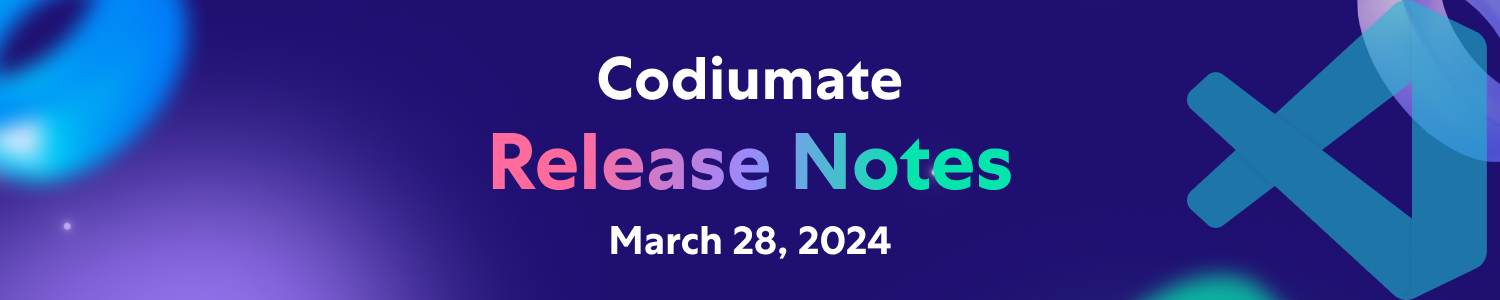
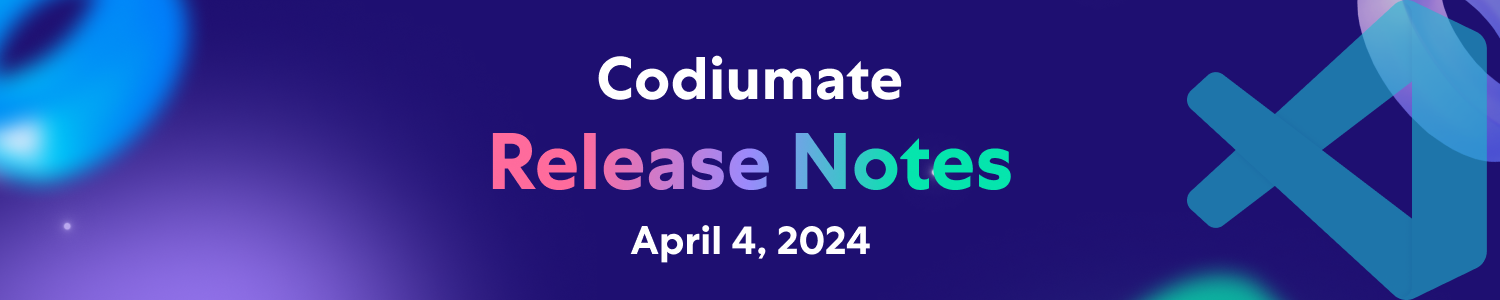
added release notes 4/4/2024

Changed region(s): [[0.3987, 0.75, 0.6133, 0.87]]

diff --git a/docs/index.md b/docs/index.md
@@ -5,50 +5,25 @@
 </figure>
 
 #
-## Codiumate for JetBrains
+## Introducing - Codiumate Coding-Agent!
 
-**[Full Release Notes](./versions/latest/codiumate-jb.md)**
+**Exciting announcement this week** - We have released the first alpha version of our **[Coding-Agent](https://www.codium.ai/products/coding-agent/)** in our VSCode extension!
 
-Our JetBrains plugin now has a **New Chat Interface!**
+In Codiumate v0.8 for VSCode, you will find your next best friend: a coding agent that helps you complete any task in your project. Just write the specification, select the relevant context, and let Codiumate write the plan and even auto-complete the code for you!
 
-Our incredible JetBrains team has put in a lot of hard work, and we're excited to unveil a new chat interface that looks and feels more like 2024 and less like.. well.. 2023. The new interface looks just like our VSCode chat. We are now working on adding all the features that we have in VSCode.
-
-**Check it out:**
+We are releasing the Codiumate-Agent in its alpha form because we, as developers, believe in giving users the chance to influence the product as early as possible. Additionally, we love seeing our users enjoy what we build.
 
 <figure markdown="1">
-![JB New Chat](./versions/latest/assets/jb-new-chat.png){ width="600" }
+![coding-agent](./versions/latest/assets/coding-agent.jpg){class="no-border" width=70%}
 </figure>
 
-
-## Codiumate for VSCode
-
-**[Full Release Notes](./versions/latest/vscode.md)**
-
-We're cooking up something exciting, and you'll hear about it soon. But in the meantime, we've introduced some really cool features that will enhance the existing ones and make them even more awesome! One of these enhancements includes... adding more context! 🍾
-
-Codiumate chat now allows you to include more context when sending any command, ensuring you get better results. This context can be drawn from the current repository or any other repository you want!
-
-**See how it works:**
-
-<figure markdown="1">
-![VSCode Context](./versions/latest/assets/vscode-context.png){ width="700" }
-</figure>
+<p style="text-align:center; font-size:120%;"> <b>In celebration of the Codiumate-Agent's launch, we are excited to extend a special offer to all our users: a 2-week trial of the Teams plan, giving everyone the opportunity to try the new feature.</b></p>
+<p style="text-align:center"> 🎉</p>
 
 
+Why imagine what you can see for real? Watch a demo of the Codiumate-Agent at its best, where it successfully auto-completes over 90% of a real task in our open-source project PR-Agent:
 
-## PR-Agent
+![type:video](https://www.youtube.com/embed/9dH3pUzsbig?si=dSRMHNdeahUTtEdn)
 
-**[Full Release Notes](./versions/latest/pr-agent.md)**
-
-As always, our PR-Agent open source is getting better and better, with the great help from our dear contributors. Keep sharing your love and stars on [GitHub](https://github.com/Codium-ai/pr-agent/) ⭐
-
-Some really cool features were added lately, including:
-
-Get [similar code](https://pr-agent-docs.codium.ai/tools/similar_code/) in GitHub, added support for bedrock/claude3, added Pypi support to install PR-Agent with pip and more.
-
-**See how Similar Code looks like:**
-
-<figure markdown="1">
-![Similar Code](./versions/latest/assets/pr-agent-similar-code.png){ width="700" }
-</figure>
+**Read the new blog by Itamar, CodiumAI's CEO - [Tandem Coding with my Agent](https://www.codium.ai/blog/tandem-development-agent-plan-aware-auto-complete-with-automatic-review/).**
 

diff --git a/docs/versions/latest/vscode.md b/docs/versions/latest/vscode.md
@@ -5,23 +5,36 @@
 </figure>
 
 #
-## v.0.7.55
+## v.0.8
 
-## Add Context to Codiumate Chat
+## Codiumate Coding-Agent
 
-We're cooking up something exciting, and you'll hear about it soon. But in the meantime, we've introduced some really cool features that will enhance the existing ones and make them even more awesome! One of these enhancements includes... adding more context! 🍾
+**Exciting announcement this week** - We have released the first alpha version of our **[Coding-Agent](https://www.codium.ai/products/coding-agent/)** in our VSCode extension!
 
-Codiumate chat now allows you to include more context when sending any command, ensuring you get better results. This context can be drawn from the current repository or any other repository you want!
+In Codiumate v0.8 for VSCode, you will find your next best friend: a coding agent that helps you complete any task in your project. Just write the specification, select the relevant context, and let Codiumate write the plan and even auto-complete the code for you!
 
-In order to add more context, select a code snippet, right-click on it and choose `add to Codiumate as context`, or simply click on SHIFT+CMD+E in Mac or SHIFT+CTRL+E in Windows.
-
-See how it works:
+We are releasing the Codiumate-Agent in its alpha form because we, as developers, believe in giving users the chance to influence the product as early as possible. Additionally, we love seeing our users enjoy what we build.
 
 <figure markdown="1">
-![VSCode Context](./assets/vscode-context.png){ width="700" }
+![coding-agent](./assets/coding-agent.jpg){class="no-border" width=70%}
 </figure>
 
-## Bug fixes
+<p style="text-align:center; font-size:120%;"> <b>In celebration of the Codiumate-Agent's launch, we are excited to extend a special offer to all our users: a 2-week trial of the Teams plan, giving everyone the opportunity to try the new feature.</b></p>
+<p style="text-align:center"> 🎉</p>
 
-- We fixed the chat behavior when there's not file in focus.
-- Fixed the context handling in the chat panel when there's no git context.
+
+Why imagine what you can see for real? Watch a demo of the Codiumate-Agent at its best, where it successfully auto-completes over 90% of a real task in our open-source project PR-Agent:
+
+![type:video](https://www.youtube.com/embed/9dH3pUzsbig?si=dSRMHNdeahUTtEdn)
+
+**Read the new blog by Itamar, CodiumAI's CEO - [Tandem Coding with my Agent](https://www.codium.ai/blog/tandem-development-agent-plan-aware-auto-complete-with-automatic-review/).**
+
+## Code Completion
+
+Well, part of our Coding-Agent includes a code completion tool. However, our code auto-completer has actually been available in alpha for a while now, and we will soon be publishing it to GA!
+
+Codiumate's code auto-completer is now offered to our Teams and Enterprise users (and, as mentioned above, to all our users during the trial period).
+
+To enable our code auto-copleter please go to the extension settings, and check the `Codium > Code auto-complete` section.
+
+We would love to hear if how it worked for you! Share yout thoughts and feedback on our [Discord Community](https://discord.gg/codiumai-1057273017547378788).

diff --git a/docs/versions/latest/jetbrains.md b/docs/versions/latest/jetbrains.md
@@ -5,46 +5,18 @@
 </figure>
 
 # 
-## v.0.7.27
+## v.0.7.29
 
-## New Chat Interface
+This week we mainly fixed some issues while working very hard on supporting all commands and contexts in the Codiumate Chat!
 
-Our JetBrains plugin now has a **New Chat Interface!**
+Next week we are going to release the Threads in the chat! And some more commands.
 
-Codiumate Chat now supports a modern interface with JetBrains IDEs. The interface has been redesign for a smoother experience and now matches the design language of Codiumate for VSCode.
+Stay tuned 🤓
 
-**Check it out:**
+### Bug fixes and maintenance
 
-<figure markdown="1">
-![JB New Chat](./assets/jb-new-chat.png){ width="600" }
-</figure>
-
-### Supported Commands and Modes
-
-All the previous commands and modes that were supported in the previous design is also supported in the new design, it just looks a bit different.
-
-Instead of "Code Assistant" and "PR Assistant" tabs, you now have a drop-down with all the supported modes:
-
-- **Free Chat mode** - for code-related chat with ChatGPT
-- **File mode** - select component or code snippet and choose a command with `/`
-- **Workspace mode** - currently supports Committed Changes (like before)
-
-We are adding all the other modes and commands, you will see a `SOON` label near them.
-
-Read more about the chat in our **[Documentation Portal](https://codiumate-docs.codium.ai/chat/)**
-
-## Issue with Android Studio
-
-There's a known issue with Android Studio, which doesn't support JCEF 😕, but there's a workaround that should help. **[Read more about it here](http://codiumate-docs.codium.ai/installation/jetbrains/#android-studio-support-jcef)**.
-
-## OptOut from Data Training directly from the plugin
-
-Free users can now Opt Out from the model training directly from our plugin settings. In order to do that, go to the Plugin Settings, and check `Opt out of sharing my data with CodiumAI` checkbox. **[Read More](http://codiumate-docs.codium.ai/installation/opt-out/)**.
-
-## Bug fixes
-
-- Fixed broken (by JetBrains) Python support in none PC 2024.1 IDEs.
-- Fixed more "Slow call on EDT ..." errors in recent 2024.1
-- Chat's Git related commands proper notification and behaviour in case of Git repository not found/detected.
-- Chat's scrollbars are now shown according to the current theme.
-- Sunsetting "Codiumate Structure" and moved it all to the new Codiumate Chat.
+- Asking for .git directory/folder location (if not found) for git related chat commands to operate.
+- Show JCEF requirement message, if Java Runtime without JCEF is used.
+- Enhanced dynamic base URL mechanism.
+- Fixed opening links in external browser.
+- Fixed issue with inconsistent presentation in opt out setting.

diff --git a/docs/versions/2024-03-28/jetbrains.md b/docs/versions/2024-03-28/jetbrains.md
@@ -1,0 +1,50 @@
+<figure markdown="1">
+![](../../assets/codium-logo.png){ class="no-border" width=200 }
+
+![](./assets/JetBrains%20release%20notes.png){ class="no-border" width=780}
+</figure>
+
+# 
+## v.0.7.27
+
+## New Chat Interface
+
+Our JetBrains plugin now has a **New Chat Interface!**
+
+Codiumate Chat now supports a modern interface with JetBrains IDEs. The interface has been redesign for a smoother experience and now matches the design language of Codiumate for VSCode.
+
+**Check it out:**
+
+<figure markdown="1">
+![JB New Chat](./assets/jb-new-chat.png){ width="600" }
+</figure>
+
+### Supported Commands and Modes
+
+All the previous commands and modes that were supported in the previous design is also supported in the new design, it just looks a bit different.
+
+Instead of "Code Assistant" and "PR Assistant" tabs, you now have a drop-down with all the supported modes:
+
+- **Free Chat mode** - for code-related chat with ChatGPT
+- **File mode** - select component or code snippet and choose a command with `/`
+- **Workspace mode** - currently supports Committed Changes (like before)
+
+We are adding all the other modes and commands, you will see a `SOON` label near them.
+
+Read more about the chat in our **[Documentation Portal](https://codiumate-docs.codium.ai/chat/)**
+
+## Issue with Android Studio
+
+There's a known issue with Android Studio, which doesn't support JCEF 😕, but there's a workaround that should help. **[Read more about it here](http://codiumate-docs.codium.ai/installation/jetbrains/#android-studio-support-jcef)**.
+
+## OptOut from Data Training directly from the plugin
+
+Free users can now Opt Out from the model training directly from our plugin settings. In order to do that, go to the Plugin Settings, and check `Opt out of sharing my data with CodiumAI` checkbox. **[Read More](http://codiumate-docs.codium.ai/installation/opt-out/)**.
+
+## Bug fixes
+
+- Fixed broken (by JetBrains) Python support in none PC 2024.1 IDEs.
+- Fixed more "Slow call on EDT ..." errors in recent 2024.1
+- Chat's Git related commands proper notification and behaviour in case of Git repository not found/detected.
+- Chat's scrollbars are now shown according to the current theme.
+- Sunsetting "Codiumate Structure" and moved it all to the new Codiumate Chat.

diff --git a/docs/versions/2024-03-28/index.md b/docs/versions/2024-03-28/index.md
@@ -1,0 +1,54 @@
+<figure markdown="1">
+![](../../assets/codium-logo.png){ class="no-border" width=200 }
+
+![](./assets/all%20release%20notes.png){ class="no-border" width=780}
+</figure>
+
+#
+## Codiumate for JetBrains
+
+**[Full Release Notes](./codiumate-jb.md)**
+
+Our JetBrains plugin now has a **New Chat Interface!**
+
+Our incredible JetBrains team has put in a lot of hard work, and we're excited to unveil a new chat interface that looks and feels more like 2024 and less like.. well.. 2023. The new interface looks just like our VSCode chat. We are now working on adding all the features that we have in VSCode.
+
+**Check it out:**
+
+<figure markdown="1">
+![JB New Chat](./assets/jb-new-chat.png){ width="600" }
+</figure>
+
+
+## Codiumate for VSCode
+
+**[Full Release Notes](./codiumate-vscode.md)**
+
+We're cooking up something exciting, and you'll hear about it soon. But in the meantime, we've introduced some really cool features that will enhance the existing ones and make them even more awesome! One of these enhancements includes... adding more context! 🍾
+
+Codiumate chat now allows you to include more context when sending any command, ensuring you get better results. This context can be drawn from the current repository or any other repository you want!
+
+**See how it works:**
+
+<figure markdown="1">
+![VSCode Context](./assets/vscode-context.png){ width="700" }
+</figure>
+
+
+
+## PR-Agent
+
+**[Full Release Notes](./pr-agent.md)**
+
+As always, our PR-Agent open source is getting better and better, with the great help from our dear contributors. Keep sharing your love and stars on [GitHub](https://github.com/Codium-ai/pr-agent/) ⭐
+
+Some really cool features were added lately, including:
+
+Get [similar code](https://pr-agent-docs.codium.ai/tools/similar_code/) in GitHub, added support for bedrock/claude3, added Pypi support to install PR-Agent with pip and more.
+
+**See how Similar Code looks like:**
+
+<figure markdown="1">
+![Similar Code](./assets/pr-agent-similar-code.png){ width="700" }
+</figure>
+

diff --git a/docs/versions/2024-04-04/index.md b/docs/versions/2024-04-04/index.md
@@ -1,2 +1,29 @@
-# March 22, 2024
+<figure markdown="1">
+![](./assets/codium-logo.png){ class="no-border" width=200 }
+
+![](./versions/latest/assets/all%20release%20notes.png){ class="no-border" width=780}
+</figure>
+
+#
+## Introducing - Codiumate Coding-Agent!
+
+**Exciting announcement this week** - We have released the first alpha version of our **[Coding-Agent](https://www.codium.ai/products/coding-agent/)** in our VSCode extension!
+
+In Codiumate v0.8 for VSCode, you will find your next best friend: a coding agent that helps you complete any task in your project. Just write the specification, select the relevant context, and let Codiumate write the plan and even auto-complete the code for you!
+
+We are releasing the Codiumate-Agent in its alpha form because we, as developers, believe in giving users the chance to influence the product as early as possible. Additionally, we love seeing our users enjoy what we build.
+
+<figure markdown="1">
+![coding-agent](./versions/latest/assets/coding-agent.jpg){class="no-border" width=70%}
+</figure>
+
+<p style="text-align:center; font-size:120%;"> <b>In celebration of the Codiumate-Agent's launch, we are excited to extend a special offer to all our users: a 2-week trial of the Teams plan, giving everyone the opportunity to try the new feature.</b></p>
+<p style="text-align:center"> 🎉</p>
+
+
+Why imagine what you can see for real? Watch a demo of the Codiumate-Agent at its best, where it successfully auto-completes over 90% of a real task in our open-source project PR-Agent:
+
+![type:video](https://www.youtube.com/embed/9dH3pUzsbig?si=dSRMHNdeahUTtEdn)
+
+**Read the new blog by Itamar, CodiumAI's CEO - [Tandem Coding with my Agent](https://www.codium.ai/blog/tandem-development-agent-plan-aware-auto-complete-with-automatic-review/).**
 

diff --git a/docs/versions/2024-03-28/vscode.md b/docs/versions/2024-03-28/vscode.md
@@ -1,0 +1,27 @@
+<figure markdown="1">
+![](../../assets/codium-logo.png){ class="no-border" width=200 }
+
+![](./assets/VSCode%20release%20notes.png){ class="no-border" width=780}
+</figure>
+
+#
+## v.0.7.55
+
+## Add Context to Codiumate Chat
+
+We're cooking up something exciting, and you'll hear about it soon. But in the meantime, we've introduced some really cool features that will enhance the existing ones and make them even more awesome! One of these enhancements includes... adding more context! 🍾
+
+Codiumate chat now allows you to include more context when sending any command, ensuring you get better results. This context can be drawn from the current repository or any other repository you want!
+
+In order to add more context, select a code snippet, right-click on it and choose `add to Codiumate as context`, or simply click on SHIFT+CMD+E in Mac or SHIFT+CTRL+E in Windows.
+
+See how it works:
+
+<figure markdown="1">
+![VSCode Context](./assets/vscode-context.png){ width="700" }
+</figure>
+
+## Bug fixes
+
+- We fixed the chat behavior when there's not file in focus.
+- Fixed the context handling in the chat panel when there's no git context.

diff --git a/docs/versions/2024-03-28/pr-agent.md b/docs/versions/2024-03-28/pr-agent.md
@@ -21,7 +21,7 @@ If you haven't seen yet, we have a **[new documentation portal](https://pr-agent
 **See how Similar Code looks like:**
 
 <figure markdown="1">
-![Similar Code](../2024-03-28/assets/pr-agent-similar-code.png){ width="700" }
+![Similar Code](./assets/pr-agent-similar-code.png){ width="700" }
 </figure>
 
 
